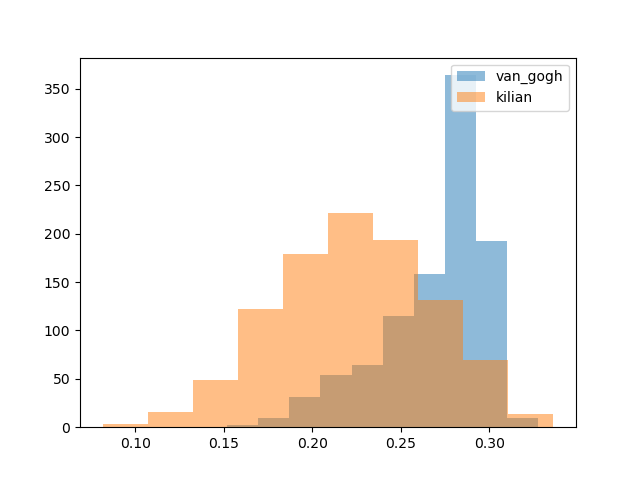
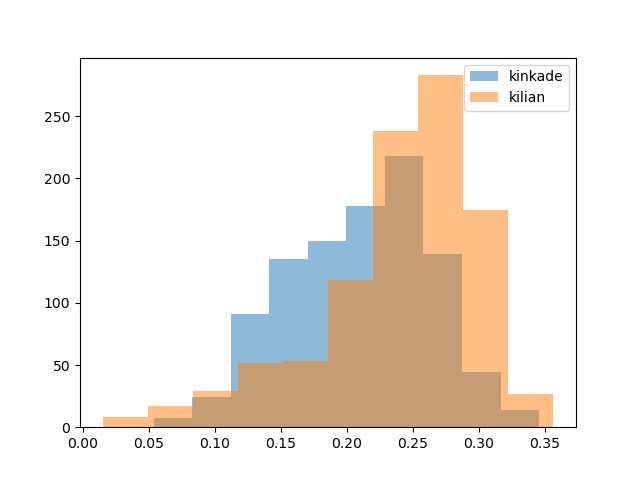
add files

diff --git a/examples/text_to_image/sample_pretrained.py b/examples/text_to_image/sample_pretrained.py
@@ -15,7 +15,7 @@ def parse_args():
     parser.add_argument('--num_images', type=int, default=30, help='number of images')
     parser.add_argument('--output_dir', type=str, default="/scratch/mp5847/diffusers_ckpt/output", help='output directory')
     parser.add_argument('--clip_filtering_threshold', type=float, default=0.25, help='clip filtering threshold')
-    parser.add_argument('--clip_filtering_tolerance', type=int, default=5, help='how many iterations before continue')
+    parser.add_argument('--clip_filtering_tolerance', type=int, default=10, help='how many iterations before continue')
     
     #create a store_true argument
     parser.add_argument('--create_metadata', action='store_true', help='if set, create json file with metadata')
@@ -42,9 +42,10 @@ if __name__ == "__main__":
     if(args.create_metadata):
         metadata = []
 
-    for p in args.prompts:
+    count = 0
+    while len(os.listdir(os.path.join(args.output_dir, "train"))) < 1000:
+        p = args.prompts[count]
         for i in range(args.num_images):    
-            
             while(True):
                 if(args.random_prompt):
                     prompt = get_random_prompt(p)
@@ -90,6 +91,48 @@ if __name__ == "__main__":
                     prompt = p
                     nsfw = save_image(pipe_pretrained, p, os.path.join(args.output_dir, f"train/{prompt}_{i}.png"))
 
+                    if(args.clip_filtering):
+                        history = {}
+                        tolerance = 0
+                        while(tolerance < args.clip_filtering_tolerance):
+                            clip_score = get_clip_score("Thomas Kinkade style", os.path.join(args.output_dir, f"train/{prompt}_{i}.png"))
+                            
+                            print(f"Prompt: {prompt}, clip score: {clip_score}")
+                            if(clip_score > args.clip_filtering_threshold):    
+                                print("Accepting image") 
+                                #delete all images in history
+                                for k, v in history.items():
+                                    print(f"Deleting image with clip score {v}")
+                                    os.remove(k)
+                                break
+                            else:
+                                print("Rejecting image")
+                                #rename image with clip score and save it in history
+                                history[os.path.join(args.output_dir, f"train/{prompt}_{i}_{clip_score}.png")] = clip_score
+                                os.rename(os.path.join(args.output_dir, f"train/{prompt}_{i}.png"), os.path.join(args.output_dir, f"train/{prompt}_{i}_{clip_score}.png"))
+                                
+                                #generate new image
+                                nsfw = save_image(pipe_pretrained, prompt, os.path.join(args.output_dir, f"train/{prompt}_{i}.png"))
+                                tolerance += 1     
+
+                        #if tolerance is reached, select the image with the highest clip score and rename it, delete the others
+                        if(tolerance == args.clip_filtering_tolerance):
+                            print("Tolerance reached")
+                            max_clip_score = max(history.values())
+                            print("Deleting all images")
+                            for k, v in history.items():
+                                # if(v == max_clip_score):
+                                #     print(f"Accepting image with clip score {v}")
+                                #     os.rename(k, os.path.join(args.output_dir, f"train/{prompt}_{i}.png"))
+                                # else:
+                                    # print(f"Deleting image with clip score {v}")
+                                    # os.remove(k)
+                                #Delete all images
+                                
+                                print(f"Deleting image with clip score {v}")
+                                os.remove(k)
+                            print("Move on to next prompt")
+
                 #check if nsfw is a list
                 if isinstance(nsfw, list):
                     nsfw = nsfw[0]
@@ -98,8 +141,9 @@ if __name__ == "__main__":
                     break
             
             if(args.create_metadata):
-                metadata.append({'file_name': f"train/{prompt}_{i}.png", 'text': prompt})
-    
+                metadata.append({'file_name': f"train/{prompt}_{i}.png", 'text': prompt.replace("Thomas Kinkade", "")})
+        count += 1
+        
     if(args.create_grid):
         for p in args.prompts:
             concat_images_in_square_grid(os.path.join(args.output_dir, "train"), p, os.path.join(args.output_dir, f"grid {p}.png"))

diff --git a/examples/text_to_image/deduplicate.py b/examples/text_to_image/deduplicate.py
@@ -40,8 +40,8 @@ def pairwise_cosine_distance(matrix):
 #add parser function
 def parse_args():
     parser = argparse.ArgumentParser()
-    parser.add_argument('--images_dir', type=str, help='path to images directory', required=True)
-    parser.add_argument('--histogram_name', type=str, help='name of histogram', required=True)
+    parser.add_argument('--images_dir', type=str, help='path to images directory')
+    parser.add_argument('--histogram_name', type=str, help='name of histogram')
     return parser.parse_args()
 
 def get_image_features(model, preprocess, image_dir, device):
@@ -67,56 +67,55 @@ if __name__ == "__main__":
     args = parse_args()
     device = "cuda" if torch.cuda.is_available() else "cpu"
 
-    print("Directory: ", args.images_dir)
-    model, _, preprocess = open_clip.create_model_and_transforms('ViT-L-14', pretrained='laion2b_s32b_b82k')
+    model, _, preprocess = open_clip.create_model_and_transforms('ViT-g-14', pretrained='laion2b_s34b_b88k')
     model = model.to(device)
 
-    all_vecs_ke = get_image_features(model, preprocess, "/scratch/mp5847/diffusers_generated_datasets/kilian_eng_multi/train", device)
+    all_vecs_ke = get_image_features(model, preprocess, "/scratch/mp5847/diffusers_generated_datasets/kilian_eng_gpt4_pretrained/train", device)
     distances = pairwise_cosine_distance(all_vecs_ke)
     distances = distances[np.triu_indices(distances.shape[0], k=1)]
     
     #plot histogram of distances
     plt.hist(distances, label='kilian')
 
-    all_vecs_vg = get_image_features(model, preprocess, "/scratch/mp5847/diffusers_generated_datasets/van_gogh_multi/train", device)
-    distances = pairwise_cosine_distance(all_vecs_vg)
+    all_vecs_tk = get_image_features(model, preprocess, "/scratch/mp5847/diffusers_generated_datasets/thomas_kinkade_gpt4_pretrained/train", device)
+    distances = pairwise_cosine_distance(all_vecs_tk)
     distances = distances[np.triu_indices(distances.shape[0], k=1)]
     
     #plot histogram of distances
-    plt.hist(distances, label='van_gogh')
+    plt.hist(distances, label='thomas_kinkade')
     plt.legend(loc='upper right')
 
     plt.show()
     # plt.savefig(args.histogram_name)
-    plt.savefig("deduplication_histogram.png")
+    plt.savefig("deduplication_histogram_gpt4.png")
 
     #clear plt
     plt.clf()
 
     #get text features
-    prompt_vg = "Van Gogh"
-    prompt_ke = "Kilian Eng"
-    text_vg = open_clip.tokenize([prompt_vg]).to(device)
+    prompt_tk = "Thomas Kinkade style"
+    prompt_ke = "Kilian Eng style"
+    text_tk = open_clip.tokenize([prompt_tk]).to(device)
     text_ke = open_clip.tokenize([prompt_ke]).to(device)
     with torch.no_grad(), torch.cuda.amp.autocast():
-        text_features_vg = model.encode_text(text_vg)
+        text_features_tk = model.encode_text(text_tk)
         text_features_ke = model.encode_text(text_ke)
 
-        text_features_vg /= text_features_vg.norm(dim=-1, keepdim=True)
+        text_features_tk /= text_features_tk.norm(dim=-1, keepdim=True)
         text_features_ke /= text_features_ke.norm(dim=-1, keepdim=True)
 
-        text_features_vg = text_features_vg.cpu().numpy()
+        text_features_tk = text_features_tk.cpu().numpy()
         text_features_ke = text_features_ke.cpu().numpy()
     
     #distance between text and image
-    distances_vg = np.matmul(text_features_vg, all_vecs_vg.T).squeeze()
+    distances_tk = np.matmul(text_features_tk, all_vecs_tk.T).squeeze()
     distances_ke = np.matmul(text_features_ke, all_vecs_ke.T).squeeze()
 
-    print("Van Gogh: ", distances_vg.shape)
+    print("Kinkade: ", distances_tk.shape)
     print("Kilian: ", distances_ke.shape)
 
     #plot histogram of distances
-    plt.hist(distances_vg, label='van_gogh', alpha=0.5)
+    plt.hist(distances_tk, label='kinkade', alpha=0.5)
     plt.hist(distances_ke, label='kilian', alpha=0.5)
     plt.legend(loc='upper right')
     plt.show()

diff --git a/examples/text_to_image/utils.py b/examples/text_to_image/utils.py
@@ -118,8 +118,16 @@ def concat_images_in_square_grid(folder_path, prompt, output_path='output.png'):
         y = (index // cols) * image_height
         grid.paste(image, (x, y))
 
+    if(os.path.exists(output_path)):
+        os.remove(output_path)
+        
     # Save the output image
     grid.save(output_path, overwrite=True)
+
+    #close
+    first_image.close()
+    image.close()
+    grid.close()
 
 def get_random_prompt(artist_style):
      

diff --git a/examples/text_to_image/sample_edit.py b/examples/text_to_image/sample_edit.py
@@ -67,6 +67,7 @@ if __name__ == "__main__":
         for name, param in pipe_finetuned.unet.named_parameters():
             if("_lora.up.weight" in name):
                 with torch.no_grad():
+                    print("Editing lora layer: ", name)
                     #flip the sign of the lora layer
                     param.copy_(torch.nn.Parameter(args.lora_edit_alpha * param))
 

diff --git a/src/diffusers/models/attention.py b/src/diffusers/models/attention.py
@@ -387,7 +387,6 @@ class FeedForward(nn.Module):
             hidden_states = module(hidden_states)
         return hidden_states
 
-
 class GELU(nn.Module):
     r"""
     GELU activation function with tanh approximation support with `approximate="tanh"`.
